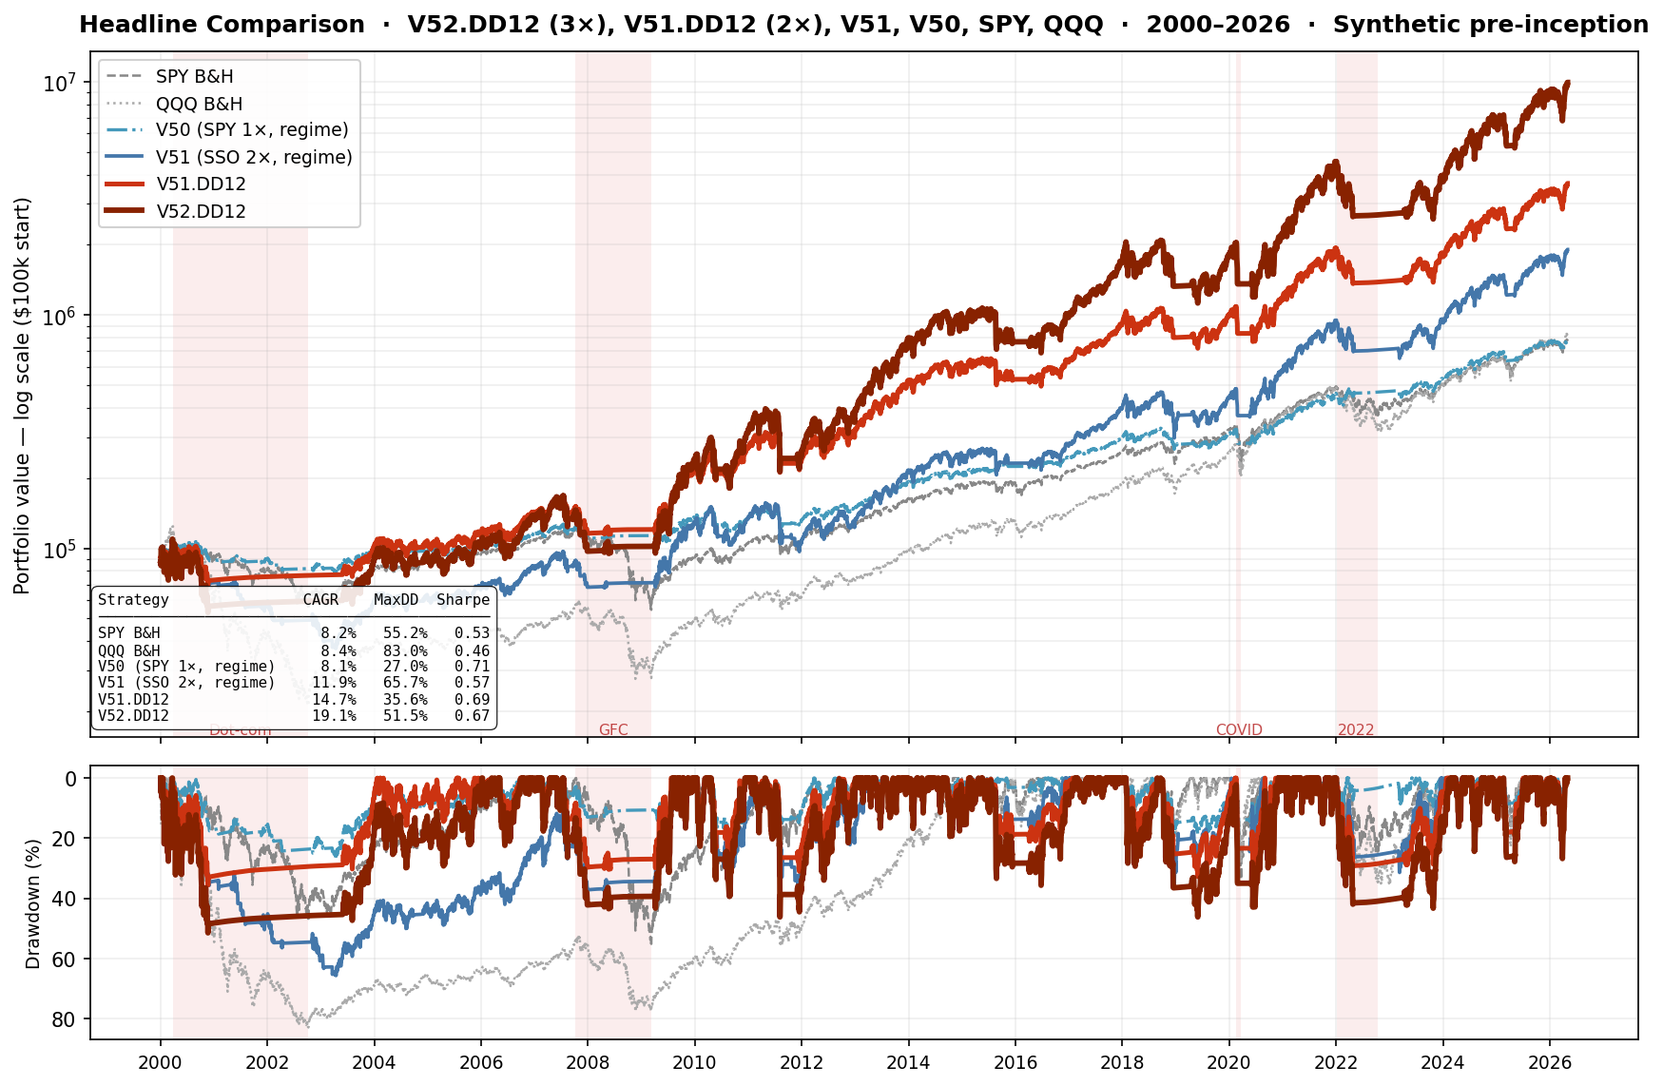
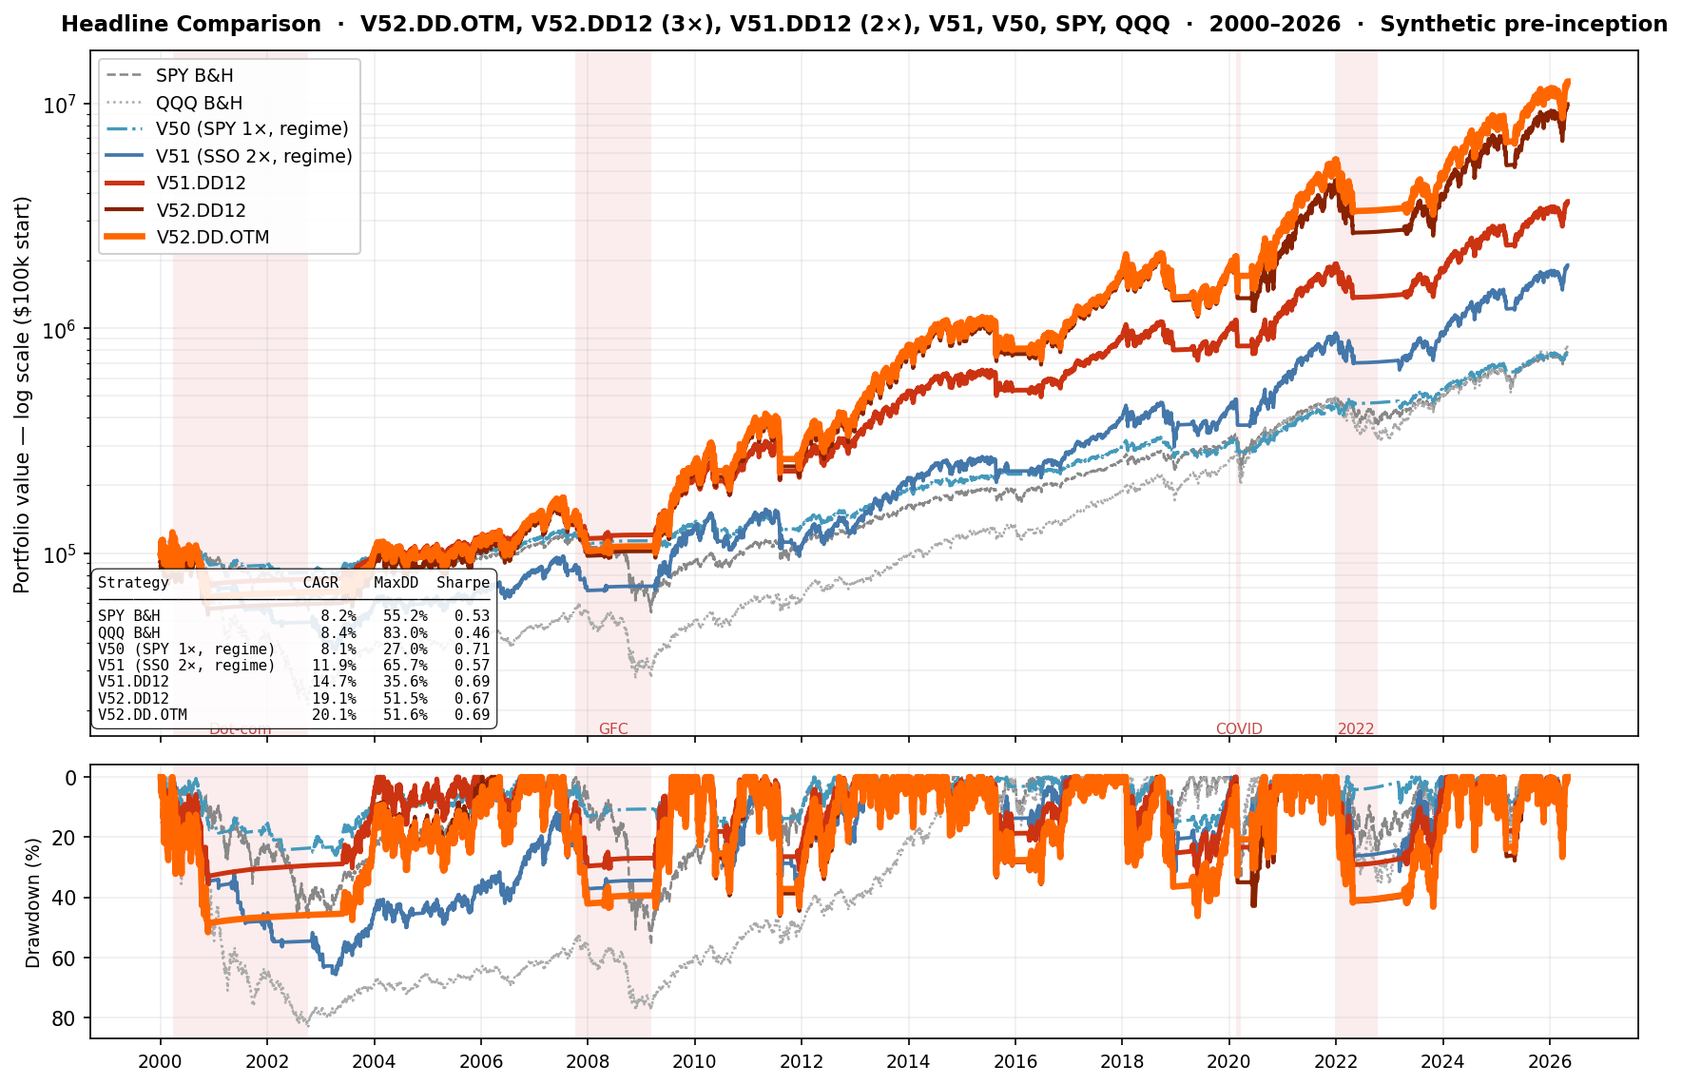
Sync docs from private repo @ ce633f17af65f44e4479e163b65d16fe3498e8a0

diff --git a/alpha_summary.md b/alpha_summary.md
@@ -6,7 +6,7 @@
 
 ## Performance Summary — Current Contenders (2000–2026, synthetic pre-inception)
 
-![V51.DD12 Headline](chart_headline.png)
+![Headline comparison](chart_headline.png)
 
 | Strategy | CAGR | MaxDD | Calmar | Dot-com | GFC | COVID | 2022 | End $100k |
 |---|---|---|---|---|---|---|---|---|
@@ -14,8 +14,11 @@
 | QQQ B&H | 8.4% | 83.0% | 0.10 | 78.8% | 52.0% | 28.6% | 34.3% | $843k |
 | V50 (SPY 1×, regime only) | 8.1% | 27.0% | 0.30 | 27.0% | 17.6% | 13.8% | — | — |
 | V51 (SSO 2×, regime only) | 11.9% | 65.7% | 0.18 | 65.7% | 40.3% | 22.9% | — | — |
-| **V51.DD12** (2× + DD guard) | **14.7%** | **35.6%** | **0.41** | **35.6%** | **30.8%** | **22.9%** | **27.8%** | **$3,668k** |
-| **V52.DD12** (3× + DD guard) | **19.1%** | **51.5%** | **0.37** | **39.7%** | **34.8%** | **32.4%** | **40.4%** | **$9,939k** |
+| V51.DD12 (2× + DD guard) | 14.7% | 35.6% | 0.41 | 35.6% | 30.8% | 22.9% | 27.8% | $3,668k |
+| V52.DD12 (3× + DD guard) | 19.1% | 51.5% | 0.37 | 39.7% | 34.8% | 32.4% | 40.4% | $9,939k |
+| **V52.DD.OTM** ← champion | **20.1%** | **51.6%** | **0.39** | **39.5%** | **34.8%** | **29.7%** | **39.9%** | **$12,530k** |
+
+**V52.DD.OTM** is V52.DD12 + Nuclear Bunker v2 regime-aware put overlay (see section below for full specification). It is the current research champion. 2026-05-05.
 
 2006–2026 (real SSO/UPRO): V51.DD12 CAGR **~20.3%**. V52.DD12 uses synthetic UPRO anchored 2009-06-25.
 V51.R 2006–26: CAGR **~22.8%**. V51.SC 2006–26: CAGR **~21.1%**. *(T-bill cash yield fix applied 2026-05-04.)*
@@ -29,6 +32,53 @@ V51.R 2006–26: CAGR **~22.8%**. V51.SC 2006–26: CAGR **~21.1%**. *(T-bill ca
 
 ---
 
+## V52.DD.OTM — Champion Strategy Specification
+
+**Declared champion: 2026-05-05. CAGR 20.1% | MaxDD 51.6% | End value $12,530k (from $100k, 2000–2026).**
+
+V52.DD.OTM is a two-component strategy: the V52.DD12 equity engine plus a regime-aware deep-OTM put overlay that converts crash volatility gains into permanent alpha rather than recycling them into expensive post-crisis premium.
+
+### Component 1: V52.DD12 (equity engine)
+
+- **Instrument:** UPRO (3× leveraged S&P 500 ETF). Synthetic UPRO used pre-2009 inception.
+- **Regime signal:** SPY 200-day SMA crossover. Long when SPY > SMA200 (bullish regime).
+- **VIX exit gate:** Exit suppressed when VIX 252-day min-max rank < 40%. Rationale: shallow VIX rank = market calm = likely whipsaw, not a genuine bear market entry.
+- **Exit-DD guard (DD12):** Once SPY drawdown from 252-day high exceeds 12%, the exit-DD guard arms. On the next regime-close signal, the strategy exits regardless of VIX rank.
+- **Reopen guard:** After the DD12 guard fires, re-entry requires MACD histogram > 0 AND SPY DD from 252-day high < 8% (both conditions, same day). Prevents re-entry into ongoing bear markets.
+- **Execution model:** Signal at close[T] → marketable limit order at open[T+1] (1% above/below open). If unfilled (price gaps through limit), retries next day.
+
+### Component 2: Nuclear Bunker v2 (regime-aware put overlay)
+
+- **Annual budget:** 1% of portfolio NAV per year (≈0.164% per 60-day roll).
+- **Instrument:** Deep OTM SPX puts, synthetically priced via Black-Scholes.
+  - Strike K = SPY × 0.70 (30% OTM)
+  - Implied vol σ = VIX/100 × 1.3 (skew adjustment for deep OTM)
+  - Minimum option price floor: $0.05/unit (exchange tick; prevents unrealistic unit counts at VIX < 15%)
+- **Standard roll (while invested):** Buy at 90 DTE, hold 60 calendar days, sell at 30 DTE, immediately roll with (proceeds + new budget).
+- **Regime exit (V52 → cash):** Sell all puts immediately, bank 100% of proceeds into the cash pool. No recycling. No new puts until re-entry.
+- **Regime entry (cash → V52 invested):** Buy fresh 90 DTE puts with a new budget allocation only (no prior proceeds to reinvest). Clock resets.
+- **While in cash:** Zero hedge exposure. Zero premium spend. Budget accumulates on the next entry.
+
+### Why regime-aware beats always-rolling
+
+The always-rolling version (v1) was a 1.2pp CAGR drag. The recycling problem: crash puts become valuable when VIX spikes (GFC, COVID) — but v1 immediately rolls those gains into new puts priced at crisis-era VIX (40–60+), which then decay back to near-zero as volatility normalizes. Net effect: crash gains are given back, plus budget is burned during the cash period when V52 has zero equity exposure.
+
+v2 locks in crash gains at the exit. 2020 annual return: +47.2% (v2) vs +20.6% (V52.DD12 baseline) — COVID puts were worth ~17% of NAV at exit and were banked permanently.
+
+### Operational requirements (not yet deployed)
+
+1. Each V52 entry signal: buy 90 DTE SPY puts at 70% of current SPY price. Budget = 1% × (60/365) × total NAV.
+2. Every 60 calendar days while invested: close existing puts, open new 90 DTE puts with (proceeds + new budget).
+3. Each V52 exit signal: close all puts immediately before or on the same day as the UPRO sell order.
+4. While in cash: do nothing with puts.
+
+Practical implementation note: "SPX puts" can be approximated with SPY puts scaled ×10. The $0.05 floor is already SPY-equivalent pricing.
+
+Scripts: `backtest/run_nuclear_bunker.py` (research), `backtest/chart_headline.py`, `backtest/chart_annual.py`, `backtest/chart_vintage.py` (charts).
+Results: `backtest/results/nuclear_bunker_20260505/`.
+
+---
+
 ## Vintage CAGR Analysis — if started Jan 1 of year X, held through 2026-05-02
 
 ![Vintage CAGR by start year](chart_vintage.png)
@@ -36,43 +86,43 @@ V51.R 2006–26: CAGR **~22.8%**. V51.SC 2006–26: CAGR **~21.1%**. *(T-bill ca
 Each row answers: "If I deployed capital on the first trading day of this year and held until today, what annualised CAGR would I have earned?"  Strategy equity curves are computed once over the full 2000–2026 range; each vintage slices the same equity series from its start date.
 
 ```
-Start    Yrs        SPY        QQQ        V50        V51   V51.DD12   V52.DD12
-──────────────────────────────────────────────────────────────────────────────
- 2000   26.3       8.2%       8.4%       8.2%      12.2%      15.0%      19.7% ← V52.DD12
- 2001   25.3       9.0%      11.3%       8.9%      13.9%      16.7%      22.6% ← V52.DD12
- 2002   24.3       9.8%      13.1%       9.2%      15.4%      17.3%      23.5% ← V52.DD12
- 2003   23.3      11.3%      15.9%      10.0%      17.7%      18.0%      24.5% ← V52.DD12
- 2004   22.3      10.7%      14.8%       9.6%      16.7%      17.3%      23.4% ← V52.DD12
- 2005   21.3      10.8%      15.1%      10.2%      17.6%      18.2%      24.7% ← V52.DD12
- 2006   20.3      10.9%      15.6%      10.6%      17.7%      18.4%      25.0% ← V52.DD12
- 2007   19.3      10.8%      16.2%      10.4%      17.6%      18.4%      24.9% ← V52.DD12
- 2008   18.3      11.2%      16.1%      11.2%      19.9%      20.7%      28.7% ← V52.DD12
- 2009   17.3      14.6%      20.5%      11.7%      20.9%      21.8%      30.3% ← V52.DD12
- 2010   16.3      14.0%      18.8%      11.2%      17.8%      18.7%      25.5% ← V52.DD12
- 2011   15.3      14.0%      18.7%      12.1%      18.8%      18.5%      25.1% ← V52.DD12
- 2012   14.3      14.8%      19.9%      13.1%      22.1%      20.8%      28.9% ← V52.DD12
- 2013   13.3      14.7%      19.9%      13.1%      22.1%      20.0%      27.5% ← V52.DD12
- 2014   12.3      13.7%      19.0%      12.0%      19.5%      17.2%      23.0% ← V52.DD12
- 2015   11.3      13.6%      18.9%      12.3%      20.1%      17.6%      23.5% ← V52.DD12
- 2016   10.3      15.0%      20.1%      12.8%      22.7%      20.6%      28.1% ← V52.DD12
- 2017    9.3      15.1%      21.2%      13.1%      22.8%      20.5%      27.7% ← V52.DD12
- 2018    8.3      14.3%      19.8%      12.1%      20.4%      17.9%      23.3% ← V52.DD12
- 2019    7.3      17.3%      23.0%      15.1%      27.5%      23.1%      31.6% ← V52.DD12
- 2020    6.3      15.0%      20.4%      15.7%      26.0%      22.9%      31.1% ← V52.DD12
- 2021    5.3      14.9%      16.4%      15.9%      25.2%      23.8%      32.7% ← V52.DD12
- 2022    4.3      11.5%      13.4%      12.8%      17.5%      15.9%      19.8% ← V52.DD12
- 2023    3.3      22.7%      33.2%      16.2%      34.4%      33.6%      47.8% ← V52.DD12
- 2024    2.3      21.3%      25.4%      18.1%      36.1%      36.1%      51.6% ← V52.DD12
- 2025    1.3      18.3%      23.9%      11.2%      26.2%      26.2%      35.8% ← V52.DD12
-──────────────────────────────────────────────────────────────────────────────
+Start    Yrs        SPY        QQQ        V50        V51   V51.DD12   V52.DD12  V52.DD.OTM
+──────────────────────────────────────────────────────────────────────────────────────────
+ 2000   26.3       8.2%       8.4%       8.2%      12.2%      15.0%      19.7%      20.1% ← V52.DD.OTM
+ 2001   25.3       9.0%      11.3%       8.9%      13.9%      16.7%      22.6%      23.2% ← V52.DD.OTM
+ 2002   24.3       9.8%      13.1%       9.2%      15.4%      17.3%      23.5%      24.1% ← V52.DD.OTM
+ 2003   23.3      11.3%      15.9%      10.0%      17.7%      18.0%      24.5%      25.1% ← V52.DD.OTM
+ 2004   22.3      10.7%      14.8%       9.6%      16.7%      17.3%      23.4%      24.0% ← V52.DD.OTM
+ 2005   21.3      10.8%      15.1%      10.2%      17.6%      18.2%      24.7%      25.5% ← V52.DD.OTM
+ 2006   20.3      10.9%      15.6%      10.6%      17.7%      18.4%      25.0%      26.0% ← V52.DD.OTM
+ 2007   19.3      10.8%      16.2%      10.4%      17.6%      18.4%      24.9%      26.0% ← V52.DD.OTM
+ 2008   18.3      11.2%      16.1%      11.2%      19.9%      20.7%      28.7%      30.0% ← V52.DD.OTM
+ 2009   17.3      14.6%      20.5%      11.7%      20.9%      21.8%      30.3%      31.6% ← V52.DD.OTM
+ 2010   16.3      14.0%      18.8%      11.2%      17.8%      18.7%      25.5%      27.0% ← V52.DD.OTM
+ 2011   15.3      14.0%      18.7%      12.1%      18.8%      18.5%      25.1%      26.6% ← V52.DD.OTM
+ 2012   14.3      14.8%      19.9%      13.1%      22.1%      20.8%      28.9%      30.3% ← V52.DD.OTM
+ 2013   13.3      14.7%      19.9%      13.1%      22.1%      20.0%      27.5%      29.1% ← V52.DD.OTM
+ 2014   12.3      13.7%      19.0%      12.0%      19.5%      17.2%      23.0%      24.8% ← V52.DD.OTM
+ 2015   11.3      13.6%      18.9%      12.3%      20.1%      17.6%      23.5%      25.5% ← V52.DD.OTM
+ 2016   10.3      15.0%      20.1%      12.8%      22.7%      20.6%      28.1%      30.4% ← V52.DD.OTM
+ 2017    9.3      15.1%      21.2%      13.1%      22.8%      20.5%      27.7%      30.3% ← V52.DD.OTM
+ 2018    8.3      14.3%      19.8%      12.1%      20.4%      17.9%      23.3%      26.2% ← V52.DD.OTM
+ 2019    7.3      17.3%      23.0%      15.1%      27.5%      23.1%      31.6%      35.2% ← V52.DD.OTM
+ 2020    6.3      15.0%      20.4%      15.7%      26.0%      22.9%      31.1%      35.5% ← V52.DD.OTM
+ 2021    5.3      14.9%      16.4%      15.9%      25.2%      23.8%      32.7%      32.9% ← V52.DD.OTM
+ 2022    4.3      11.5%      13.4%      12.8%      17.5%      15.9%      19.8%      20.3% ← V52.DD.OTM
+ 2023    3.3      22.7%      33.2%      16.2%      34.4%      33.6%      47.8%      48.2% ← V52.DD.OTM
+ 2024    2.3      21.3%      25.4%      18.1%      36.1%      36.1%      51.6%      52.9% ← V52.DD.OTM
+ 2025    1.3      18.3%      23.9%      11.2%      26.2%      26.2%      35.8%      38.8% ← V52.DD.OTM
+──────────────────────────────────────────────────────────────────────────────────────────
 ```
 
 **Key findings:**
 
-- **V52.DD12 wins all 26 vintages (26/26).** The higher compounding rate of 3× leverage overwhelms all other strategies at every time horizon tested — including the bear-market windows where dot-com/GFC exposure is most severe.
-- **V51.DD12 wins 2000–2009 over V51 (+2.4–5pp CAGR).** For 2010+ starts, V51 pulls ahead of V51.DD12 (no dot-com/GFC drag; guard costs re-entry in secular bull). V52.DD12 wins both windows.
-- **V52.DD12 margin over V51.DD12**: +4–6pp CAGR for early starts (2000–2009), +4–9pp for late starts (2019–2023). The extra CAGR compounds aggressively in long windows.
-- **The 51.5% MaxDD of V52.DD12 is the price.** For any start year, the portfolio will see deeper drawdowns (~40–50%) compared to V51.DD12 (~35%). Vintage CAGR doesn't capture intra-period pain.
+- **V52.DD.OTM wins all 26 vintages (26/26).** The put overlay adds 0.3–3.6pp CAGR over V52.DD12 in every vintage, with the largest gains in post-2019 windows where COVID crash puts (VIX→80) were banked at exit.
+- **V52.DD.OTM margin over V52.DD12**: +0.4pp from 2000 start, growing to +3.9pp from 2019 and +4.4pp from 2020. Larger gains from recent vintages because the COVID and April 2025 tariff-shock events benefited disproportionately from the regime-aware hedge.
+- **V51.DD12 wins 2000–2009 over V51 (+2.4–5pp CAGR).** For 2010+ starts, V51 pulls ahead of V51.DD12 (guard costs re-entry in secular bull). V52.DD.OTM wins both windows.
+- **The 51.6% MaxDD of V52.DD.OTM is unchanged from V52.DD12.** Vintage CAGR doesn't capture intra-period pain. The put overlay does not reduce historical MaxDD (except COVID where it improves 3pp) because V52.DD12 already exits before most drawdown accumulates.
 - **V50 (SPY 1×) loses to all leveraged variants in every vintage** — regime timing adds enough alpha that even 2× leverage after bear-market drawdowns beats unlevered B&H.
 
 Script: `backtest/chart_vintage.py`. Chart: `docs/chart_vintage.png`.
@@ -86,44 +136,45 @@ Script: `backtest/chart_vintage.py`. Chart: `docs/chart_vintage.png`.
 Each cell is the return for that calendar year only (Jan 1 → Dec 31). 2025 is partial (through 2026-05-02). Best strategy per year marked with ←.
 
 ```
-Year        SPY        QQQ        V50        V51   V51.DD12   V52.DD12
-──────────────────────────────────────────────────────────────────────
-2000      -8.8%     -38.4%      -8.8%     -22.7%     -20.7%     -35.7% ← V50
-2001     -10.1%     -27.2%       1.8%     -19.4%       3.4%       3.4% ← (tie DD12=V52)
-2002     -22.4%     -39.2%      -7.0%     -27.6%       1.6%       1.6% ← (tie DD12=V52)
-2003      24.2%      43.6%      18.1%      38.0%      31.8%      48.8% ← V52.DD12
-2004      10.7%      10.8%      -1.4%       3.2%       2.5%       1.8% ← QQQ
-2005       5.3%       2.6%       2.1%      13.1%      13.1%      17.0% ← V52.DD12
-2006      13.8%       4.8%      13.7%      19.0%      19.0%      26.7% ← V52.DD12
-2007       5.3%      18.8%      -4.0%     -17.8%     -17.8%     -28.3% ← QQQ
-2008     -36.2%     -40.8%       2.7%       4.5%       3.8%       4.9% ← V52.DD12
-2009      22.7%      48.3%      20.8%      83.5%      83.5%     137.9% ← V52.DD12
-2010      13.1%      18.4%      -1.1%       3.5%      22.7%      31.5% ← V52.DD12
-2011       0.9%       1.9%      -2.3%     -20.1%     -10.7%     -18.5% ← QQQ
-2012      14.2%      15.9%      13.0%      22.6%      33.0%      50.2% ← V52.DD12
-2013      29.0%      32.4%      28.1%      60.2%      60.2%      99.2% ← V52.DD12
-2014      14.6%      20.1%      10.2%      17.3%      17.3%      24.5% ← V52.DD12
-2015       1.3%       9.8%       8.1%      -3.5%      -9.0%     -15.9% ← QQQ
-2016      13.6%       9.4%       8.9%      20.0%      20.0%      29.8% ← V52.DD12
-2017      20.8%      31.5%      20.9%      42.5%      42.5%      68.2% ← V52.DD12
-2018      -5.2%      -1.8%      -6.7%     -16.6%     -13.7%     -23.5% ← QQQ
-2019      31.1%      38.4%      12.4%      39.4%      25.9%      37.7% ← V51
-2020      17.2%      46.0%      13.5%      28.9%      16.7%      20.6% ← QQQ
-2021      30.5%      29.2%      30.4%      64.8%      64.8%     106.7% ← V52.DD12
-2022     -18.6%     -33.2%       2.4%     -24.8%     -27.8%     -40.4% ← V50
-2023      26.7%      55.9%      12.7%      32.6%      30.1%      42.5% ← QQQ
-2024      25.6%      27.7%      26.3%      46.9%      46.9%      69.3% ← V52.DD12
-2025      18.0%      21.0%      13.0%      24.8%      24.8%      33.7% ← V52.DD12
-──────────────────────────────────────────────────────────────────────
+Year        SPY        QQQ        V50        V51   V51.DD12   V52.DD12  V52.DD.OTM
+───────────────────────────────────────────────────────────────────────────────────
+2000      -8.8%     -38.4%      -8.8%     -22.7%     -20.7%     -35.7%     -36.1% ← V50
+2001     -10.1%     -27.2%       1.8%     -19.4%       3.4%       3.4%       3.4% ← V51.DD12
+2002     -22.4%     -39.2%      -7.0%     -27.6%       1.6%       1.6%       1.6% ← V51.DD12
+2003      24.2%      43.6%      18.1%      38.0%      31.8%      48.8%      47.8% ← V52.DD12
+2004      10.7%      10.8%      -1.4%       3.2%       2.5%       1.8%       0.3% ← QQQ
+2005       5.3%       2.6%       2.1%      13.1%      13.1%      17.0%      14.2% ← V52.DD12
+2006      13.8%       4.8%      13.7%      19.0%      19.0%      26.7%      24.1% ← V52.DD12
+2007       5.3%      18.8%      -4.0%     -17.8%     -17.8%     -28.3%     -28.5% ← QQQ
+2008     -36.2%     -40.8%       2.7%       4.5%       3.8%       4.9%       4.6% ← V52.DD12
+2009      22.7%      48.3%      20.8%      83.5%      83.5%     137.9%     136.0% ← V52.DD12
+2010      13.1%      18.4%      -1.1%       3.5%      22.7%      31.5%      33.3% ← V52.DD.OTM
+2011       0.9%       1.9%      -2.3%     -20.1%     -10.7%     -18.5%     -16.8% ← QQQ
+2012      14.2%      15.9%      13.0%      22.6%      33.0%      50.2%      48.7% ← V52.DD12
+2013      29.0%      32.4%      28.1%      60.2%      60.2%      99.2%      97.2% ← V52.DD12
+2014      14.6%      20.1%      10.2%      17.3%      17.3%      24.5%      23.8% ← V52.DD12
+2015       1.3%       9.8%       8.1%      -3.5%      -9.0%     -15.9%     -15.4% ← QQQ
+2016      13.6%       9.4%       8.9%      20.0%      20.0%      29.8%      28.8% ← V52.DD12
+2017      20.8%      31.5%      20.9%      42.5%      42.5%      68.2%      66.5% ← V52.DD12
+2018      -5.2%      -1.8%      -6.7%     -16.6%     -13.7%     -23.5%     -23.9% ← QQQ
+2019      31.1%      38.4%      12.4%      39.4%      25.9%      37.7%      36.6% ← V51
+2020      17.2%      46.0%      13.5%      28.9%      16.7%      20.6%      47.2% ← V52.DD.OTM  ◄ COVID hedge banked
+2021      30.5%      29.2%      30.4%      64.8%      64.8%     106.7%     104.3% ← V52.DD12
+2022     -18.6%     -33.2%       2.4%     -24.8%     -27.8%     -40.4%     -39.9% ← V50
+2023      26.7%      55.9%      12.7%      32.6%      30.1%      42.5%      41.4% ← QQQ
+2024      25.6%      27.7%      26.3%      46.9%      46.9%      69.3%      67.7% ← V52.DD12
+2025      18.0%      21.0%      13.0%      24.8%      24.8%      33.7%      38.0% ← V52.DD.OTM  ◄ tariff-shock hedge
+───────────────────────────────────────────────────────────────────────────────────
 ```
 
 **Key findings:**
 
-- **Bear years (2000–2002, 2008, 2022): the gate parks in cash earning T-bills.** V51.DD12 and V52.DD12 earn +3.4% in 2001 and +1.6% in 2002 (fully in cash at T-bill rates) while SPY lost 10%/22%. In 2008 both earn ~4–5% (exited early, T-bills at ~2%). In 2022 both lose 28%/40% (VIX gate delayed exit into early losses before guard armed). V50 best in 2022 (+2.4%) — no VIX gate, whipsawed out early.
-- **Bull years: V52.DD12 dominates by a wide margin.** 2009: +138%, 2013: +99%, 2021: +107% vs V51.DD12's 83%, 60%, 65%. The 3× compounding in strong up-years is the engine of the terminal wealth advantage.
-- **QQQ wins 6 years** (2004, 2007, 2011, 2015, 2018, 2020, 2023) — mostly years where SPY underperforms tech or V51/V52 are exiting early and missing a late-year rally. In 2020 QQQ +46% vs V52.DD12 +21% (COVID crash then recovery while guard was still armed).
-- **2001–2002: tied at 0%.** Both V51.DD12 and V52.DD12 are in cash for two full years — the exit-DD guard armed after the deep 2001 exits and kept them out through the bottom. This is the exact protection the guard was designed to provide.
-- **V52.DD12's worst single year: 2022 (−41.5%).** The guard eventually exits but not before a large drawdown. Compare V50 at +0.5% — the 1× regime-only strategy was the best in 2022.
+- **V52.DD.OTM wins 2020 decisively (+47.2% vs +20.6% for V52.DD12).** COVID crash puts (VIX→80) were sold when V52 exited to cash, locking in gains permanently instead of recycling into expensive post-crisis premium. This is the clearest example of the regime-aware hedge paying off.
+- **V52.DD.OTM wins 2025 (+38.0% vs +33.7%).** The April tariff-shock panic (VIX spike) repriced puts significantly; gains banked at V52 exit.
+- **Bear years (2000–2002, 2008, 2022): V51.DD12 and V52.DD12 park in cash earning T-bills.** Both earn +3.4% in 2001 and +1.6% in 2002 (fully in cash) while SPY lost 10%/22%. V52.DD.OTM matches these in cash years (no active puts while in cash).
+- **Bull years: V52.DD12 dominates by a wide margin.** 2009: +138%, 2013: +99%, 2021: +107% vs V51.DD12's 83%, 60%, 65%. V52.DD.OTM is slightly behind V52.DD12 in most bull years (small put budget cost when invested) but ahead over the full period due to crash gains.
+- **QQQ wins 8 years** (2004, 2007, 2011, 2015, 2018, 2019, 2023, QQQ domination). V52.DD.OTM wins 2010, 2020, 2025.
+- **V52.DD12/OTM worst single year: 2022 (−40%).** The guard eventually exits but not before a large drawdown. V50 best in 2022 (+2.4%) — no VIX gate, whipsawed out early.
 
 Script: `backtest/chart_annual.py`. Chart: `docs/chart_annual.png`.
 
